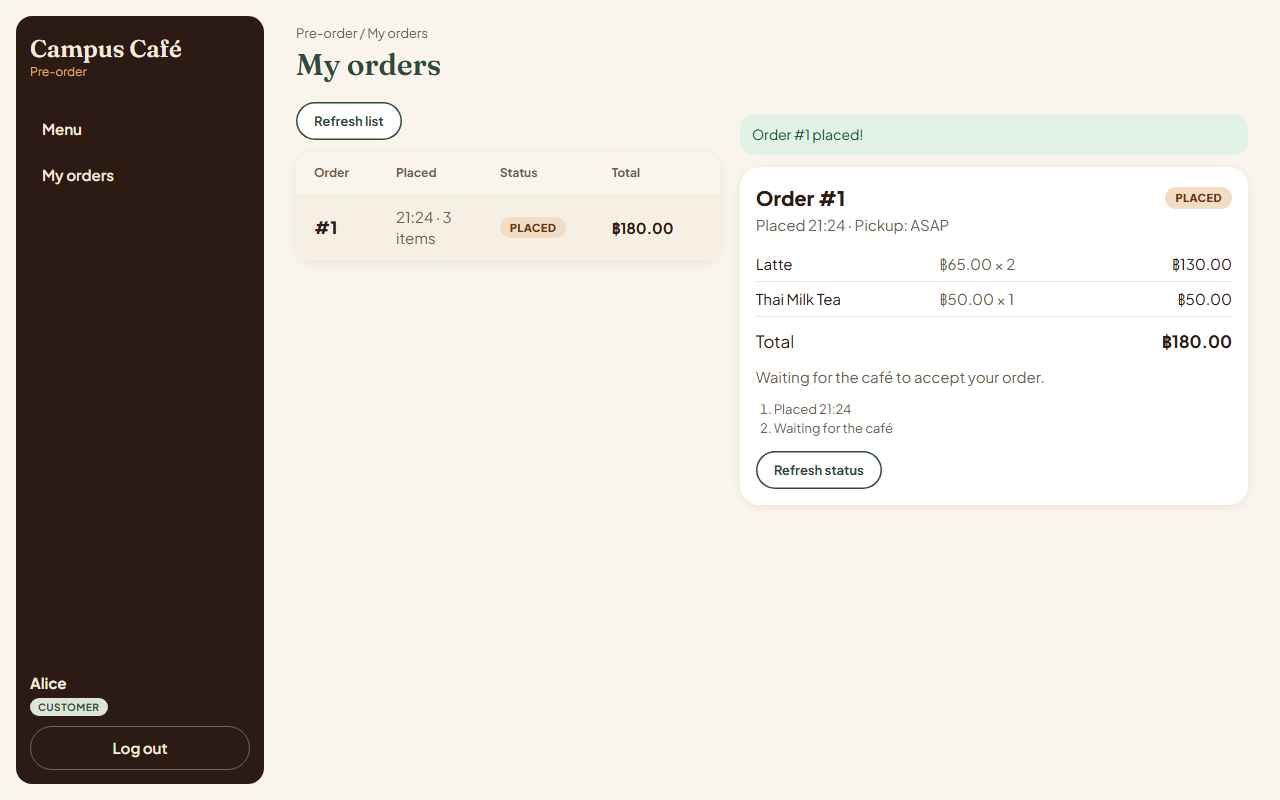
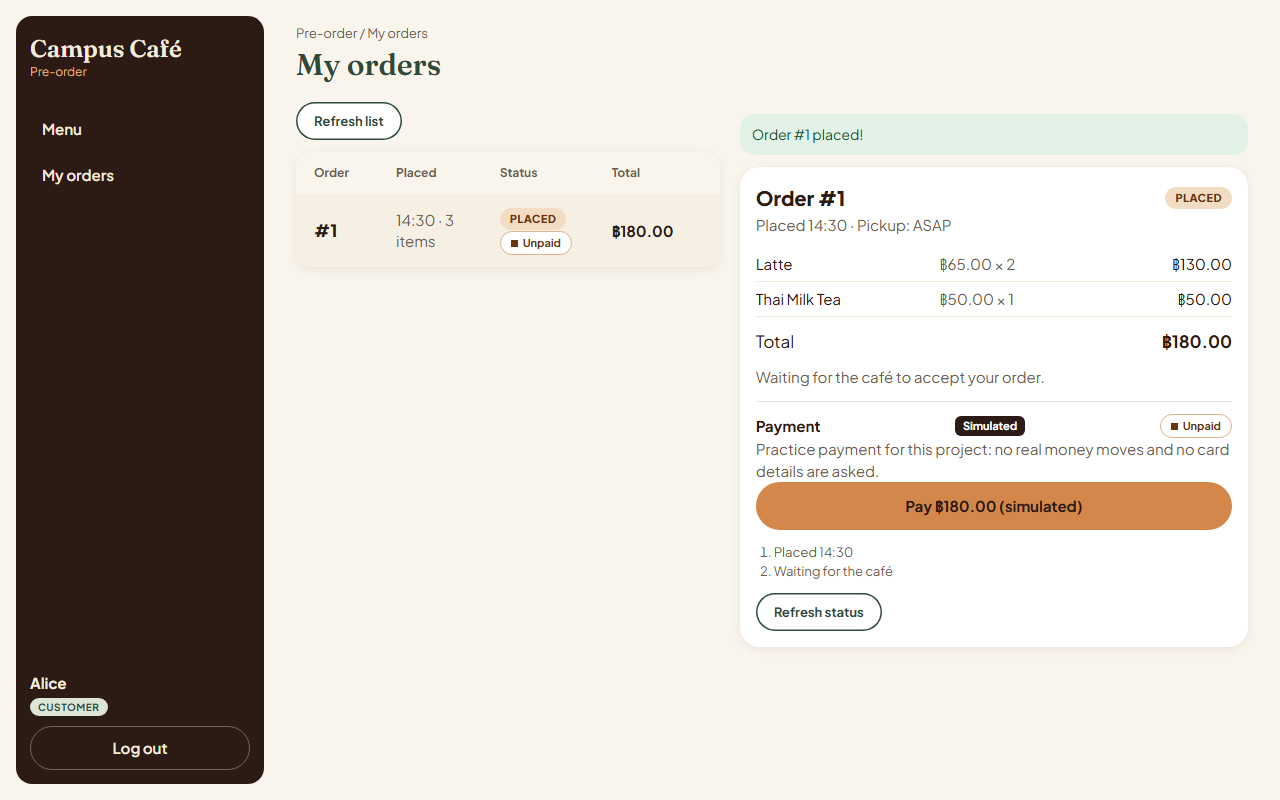
feat(F-09): [green] pickup slots, cut-off, capacity, slot list and minimal picker; migration add_order_pickup_slot

diff --git a/client/src/pages/MenuPage.tsx b/client/src/pages/MenuPage.tsx
@@ -1,4 +1,5 @@
 import { useCallback, useEffect, useState } from "react";
+import { SlotPicker } from "../components/SlotPicker";
 import { useLocation, useNavigate } from "react-router-dom";
 import { api, ApiError, NETWORK_MESSAGE } from "../api";
 import { useCart } from "../cart";
@@ -94,6 +95,8 @@ export function MenuPage() {
   const [submitting, setSubmitting] = useState(false);
   const [error, setError] = useState<{ text: string; retry: boolean } | null>(null);
   const [badLines, setBadLines] = useState<Record<number, string>>({});
+  const [pickupSlot, setPickupSlot] = useState(""); // F-09: "" = ASAP
+  const [slotsKey, setSlotsKey] = useState(0);
 
   const inCart = Object.fromEntries(cart.lines.map((l) => [l.menuItemId, l.quantity]));
   const count = cart.lines.reduce((n, l) => n + l.quantity, 0);
@@ -107,7 +110,8 @@ export function MenuPage() {
     try {
       // Only ids and quantities: the server owns prices and the total (BR-04).
       const items = cart.lines.map(({ menuItemId, quantity }) => ({ menuItemId, quantity }));
-      const order = await api<Order>("/api/orders", { method: "POST", body: { items } });
+      const body = pickupSlot ? { items, pickupSlot } : { items };
+      const order = await api<Order>("/api/orders", { method: "POST", body });
       dispatch({ type: "clear" });
       setBadLines({});
       navigate(`/orders/${order.id}`, { state: { placed: true } });
@@ -117,6 +121,15 @@ export function MenuPage() {
         const bad = (err.details as { items?: { menuItemId: number; reason: string }[] } | null)?.items ?? [];
         setBadLines(Object.fromEntries(bad.map((b) => [b.menuItemId, REASON[b.reason] ?? "Check this item."])));
         reload(); // sold-out flags may have changed since the page loaded
+        if ((err.details as { field?: string } | null)?.field === "pickupSlot") {
+          setPickupSlot("");
+          setSlotsKey((k) => k + 1);
+        }
+      } else if (err instanceof ApiError && err.status === 409) {
+        // F-09: the slot filled up while the customer was choosing; show the server text and reload the slots.
+        setError({ text: err.message, retry: false });
+        setPickupSlot("");
+        setSlotsKey((k) => k + 1);
       } else if (!(err instanceof ApiError && err.status === 401)) {
         setError({ text: NETWORK_MESSAGE, retry: true });
       }
@@ -211,7 +224,7 @@ export function MenuPage() {
         </ul>
       )}
       {full && <div className="msg info">{fullMsg}</div>}
-      <p className="muted">Pickup: ASAP</p>
+      <SlotPicker value={pickupSlot} onChange={setPickupSlot} reloadKey={slotsKey} />
       <div className="cart-total">
         <span>Estimated total</span>
         <strong>{formatBaht(total)}</strong>

diff --git a/server/src/orders/routes.ts b/server/src/orders/routes.ts
@@ -6,6 +6,7 @@ import { requireRole } from "../auth/middleware.js";
 import { toOrderJson } from "./json.js";
 import { statusesThatCanMoveTo } from "./transitions.js";
 import { dbId, MAX_DB_ID } from "../ids.js";
+import { CAPACITY, parsePickupSlot } from "./slots.js";
 
 export const ordersRouter = Router();
 ordersRouter.use(requireRole("CUSTOMER"));
@@ -26,7 +27,10 @@ const placeBody = z.strictObject({
 type BadItem = { menuItemId: number; reason: "DUPLICATE" | "NOT_FOUND" | "SOLD_OUT" };
 
 ordersRouter.post("/", async (req, res) => {
-  const { items } = placeBody.parse(req.body);
+  // F-09: pickupSlot is read here, outside the place-order schema block above (Lab 7 edits that block).
+  const { pickupSlot: rawSlot, ...rest } = (req.body ?? {}) as Record<string, unknown>;
+  const { items } = placeBody.parse(rest);
+  const slot = rawSlot === undefined || rawSlot === null ? null : parsePickupSlot(rawSlot);
 
   const seen = new Set<number>();
   const duplicates: BadItem[] = [];
@@ -58,6 +62,13 @@ ordersRouter.post("/", async (req, res) => {
       throw new AppError(400, "VALIDATION_ERROR", `Order not placed. ${what} no longer available.`, { items: bad });
     }
 
+    // F-09: a per-slot lock makes "count, then insert" safe: 20 parallel orders for the last place give one success.
+    if (slot) {
+      await tx.$executeRaw`SELECT pg_advisory_xact_lock(${Math.floor(slot.getTime() / 60000)}::bigint)`;
+      const taken = await tx.order.count({ where: { pickupSlot: slot, status: { notIn: ["CANCELLED", "REJECTED"] } } });
+      if (taken >= CAPACITY) throw new AppError(409, "INVALID_STATE", "This pickup slot is full. Pick another slot.", { pickupSlot: slot.toISOString() });
+    }
+
     // Prices and names come from the database and are copied onto the lines (BR-04, BR-05).
     const lines = items.map(({ menuItemId, quantity }) => {
       const m = byId.get(menuItemId)!;
@@ -65,7 +76,7 @@ ordersRouter.post("/", async (req, res) => {
     });
     const total = lines.reduce((sum, l) => sum + l.unitPrice * l.quantity, 0);
     return tx.order.create({
-      data: { customerId: req.user!.id, total, lines: { create: lines } },
+      data: { customerId: req.user!.id, total, pickupSlot: slot, lines: { create: lines } },
       include: { lines: { orderBy: { id: "asc" } } },
     });
   });

diff --git a/server/src/orders/slots.ts b/server/src/orders/slots.ts
@@ -1,0 +1,37 @@
+import { AppError } from "../errors.js";
+
+// F-09 pickup slots (BR-22..BR-24). All values live here (contract section 2).
+export const SLOT_MINUTES = 15;
+export const CUTOFF_MINUTES = 15; // orders for a slot close this long before it starts
+export const CAPACITY = 10; // active orders per slot
+const OPEN_HOUR = 8; // 08:00 Asia/Bangkok
+const CLOSE_HOUR = 17; // 17:00; the last slot starts 16:45
+const BANGKOK_OFFSET_MS = 7 * 60 * 60 * 1000; // UTC+7, no daylight saving
+const MIN_MS = 60_000;
+
+// Tests replace the clock with a fixed time; the server never trusts the client's idea of "now".
+export const clock = { now: () => new Date() };
+
+// Start times (UTC) of today's slots in Bangkok: 08:00, 08:15 ... 16:45.
+export function todaySlots(now: Date = clock.now()): Date[] {
+  const bkk = new Date(now.getTime() + BANGKOK_OFFSET_MS);
+  const dayStartUtc = Date.UTC(bkk.getUTCFullYear(), bkk.getUTCMonth(), bkk.getUTCDate()) - BANGKOK_OFFSET_MS;
+  const out: Date[] = [];
+  for (let m = OPEN_HOUR * 60; m < CLOSE_HOUR * 60; m += SLOT_MINUTES) out.push(new Date(dayStartUtc + m * MIN_MS));
+  return out;
+}
+
+// Open while now is strictly before (start - cut-off): at the cut-off second the slot is closed.
+export const isClosed = (start: Date, now: Date = clock.now()) => now.getTime() >= start.getTime() - CUTOFF_MINUTES * MIN_MS;
+
+const field = "pickupSlot";
+
+// Returns the slot start as a Date, or throws 400 (bad value, not one of today's slots, or past its cut-off).
+export function parsePickupSlot(value: unknown): Date {
+  const date = typeof value === "string" ? new Date(value) : null;
+  if (!date || Number.isNaN(date.getTime())) throw new AppError(400, "VALIDATION_ERROR", "Pickup slot must be a valid time.", { field });
+  const start = todaySlots().find((s) => s.getTime() === date.getTime());
+  if (!start) throw new AppError(400, "VALIDATION_ERROR", "Pick one of today's pickup slots.", { field });
+  if (isClosed(start)) throw new AppError(400, "VALIDATION_ERROR", "This pickup slot is closed. Pick a later slot.", { field });
+  return start;
+}

diff --git a/client/src/components/SlotPicker.tsx b/client/src/components/SlotPicker.tsx
@@ -1,0 +1,31 @@
+import { useEffect, useState } from "react";
+import { api } from "../api";
+
+type Slot = { start: string; state: "open" | "closed" | "full"; remaining: number };
+
+const hhmm = (iso: string) =>
+  new Intl.DateTimeFormat("en-GB", { hour: "2-digit", minute: "2-digit", hour12: false, timeZone: "Asia/Bangkok" }).format(new Date(iso));
+
+// F-09: pickup time. "" means ASAP. Closed and full slots are shown but cannot be chosen.
+// ponytail: minimal picker (a select); a prettier slot grid can come with the Sprint 3 UI work.
+export function SlotPicker({ value, onChange, reloadKey }: { value: string; onChange: (v: string) => void; reloadKey: number }) {
+  const [slots, setSlots] = useState<Slot[] | null>(null);
+  useEffect(() => {
+    api<Slot[]>("/api/slots").then(setSlots).catch(() => setSlots([]));
+  }, [reloadKey]);
+
+  return (
+    <p className="muted">
+      <label htmlFor="pickup-slot">Pickup time </label>
+      <select id="pickup-slot" value={value} onChange={(e) => onChange(e.target.value)}>
+        <option value="">ASAP</option>
+        {slots?.map((s) => (
+          <option key={s.start} value={s.start} disabled={s.state !== "open"}>
+            {hhmm(s.start)}
+            {s.state === "closed" ? " (closed)" : s.state === "full" ? " (full)" : ""}
+          </option>
+        ))}
+      </select>
+    </p>
+  );
+}

diff --git a/server/src/orders/slotsRoutes.ts b/server/src/orders/slotsRoutes.ts
@@ -1,0 +1,26 @@
+import { Router } from "express";
+import { prisma } from "../db.js";
+import { requireRole } from "../auth/middleware.js";
+import { CAPACITY, clock, isClosed, todaySlots } from "./slots.js";
+
+// F-09: today's slots with their state. Read-only; the same for every customer.
+export const slotsRouter = Router();
+slotsRouter.use(requireRole("CUSTOMER"));
+
+slotsRouter.get("/", async (_req, res) => {
+  const now = clock.now();
+  const slots = todaySlots(now);
+  const used = await prisma.order.groupBy({
+    by: ["pickupSlot"],
+    where: { pickupSlot: { in: slots }, status: { notIn: ["CANCELLED", "REJECTED"] } },
+    _count: { _all: true },
+  });
+  const usedBy = new Map(used.map((u) => [u.pickupSlot!.getTime(), u._count._all]));
+  res.json(
+    slots.map((s) => {
+      const remaining = Math.max(0, CAPACITY - (usedBy.get(s.getTime()) ?? 0));
+      const state = isClosed(s, now) ? "closed" : remaining === 0 ? "full" : "open";
+      return { start: s.toISOString(), state, remaining: state === "closed" ? 0 : remaining };
+    }),
+  );
+});

diff --git a/client/src/lib/orders.ts b/client/src/lib/orders.ts
@@ -2,5 +2,5 @@
 export type OrderStatus = "PLACED" | "ACCEPTED" | "PREPARING" | "READY" | "PICKED_UP" | "REJECTED" | "CANCELLED";
 export type PaymentStatus = "UNPAID" | "PAID" | "REFUNDED";
 export type OrderLine = { menuItemId: number; name: string; unitPrice: number; quantity: number; lineTotal: number };
-export type Order = { id: number; status: OrderStatus; total: number; createdAt: string; acceptedAt: string | null; paymentStatus: PaymentStatus; paidAt: string | null; refundedAt: string | null; lines: OrderLine[] };
+export type Order = { id: number; status: OrderStatus; total: number; createdAt: string; acceptedAt: string | null; pickupSlot: string | null; paymentStatus: PaymentStatus; paidAt: string | null; refundedAt: string | null; lines: OrderLine[] };
 export type OrderSummary = { id: number; status: OrderStatus; paymentStatus: PaymentStatus; total: number; itemCount: number; createdAt: string };

diff --git a/server/src/app.ts b/server/src/app.ts
@@ -6,6 +6,7 @@ import { prisma } from "./db.js";
 import { AppError, errorHandler } from "./errors.js";
 import { authRouter } from "./auth/routes.js";
 import { ordersRouter } from "./orders/routes.js";
+import { slotsRouter } from "./orders/slotsRoutes.js";
 import { paymentsRouter } from "./payments/routes.js";
 import { menuRouter } from "./menu/routes.js";
 import { menuAdminRouter } from "./operator/menu.js";
@@ -33,6 +34,7 @@ export function createApp(addRoutes?: (app: Express) => void) {
   api.use("/auth", authRouter);
   api.use("/orders", paymentsRouter); // F-08: only POST /:id/pay, before the orders router
   api.use("/orders", ordersRouter);
+  api.use("/slots", slotsRouter); // F-09
   api.use("/menu", menuRouter);
   api.use("/operator/menu", menuAdminRouter); // F-05, before the operator order routes
   api.use("/operator", operatorRouter);

diff --git a/server/src/orders/json.ts b/server/src/orders/json.ts
@@ -11,6 +11,7 @@ export function toOrderJson(order: Order & { lines: OrderLine[] }) {
     cancelledAt: order.cancelledAt?.toISOString() ?? null,
     rejectedAt: order.rejectedAt?.toISOString() ?? null,
     rejectReason: order.rejectReason,
+    pickupSlot: order.pickupSlot?.toISOString() ?? null,
     paymentStatus: order.paymentStatus,
     paidAt: order.paidAt?.toISOString() ?? null,
     refundedAt: order.refundedAt?.toISOString() ?? null,

diff --git a/client/src/pages/OrdersPage.tsx b/client/src/pages/OrdersPage.tsx
@@ -165,7 +165,7 @@ export function OrderDetailPage() {
           <StatusPill status={order.status} />
         </div>
         <p className="muted">
-          Placed {formatPlacedTime(order.createdAt)} · Pickup: ASAP
+          Placed {formatPlacedTime(order.createdAt)} · Pickup: {order.pickupSlot ? formatPlacedTime(order.pickupSlot).split(" ").pop() : "ASAP"}
         </p>
         <table className="lines">
           <tbody>
